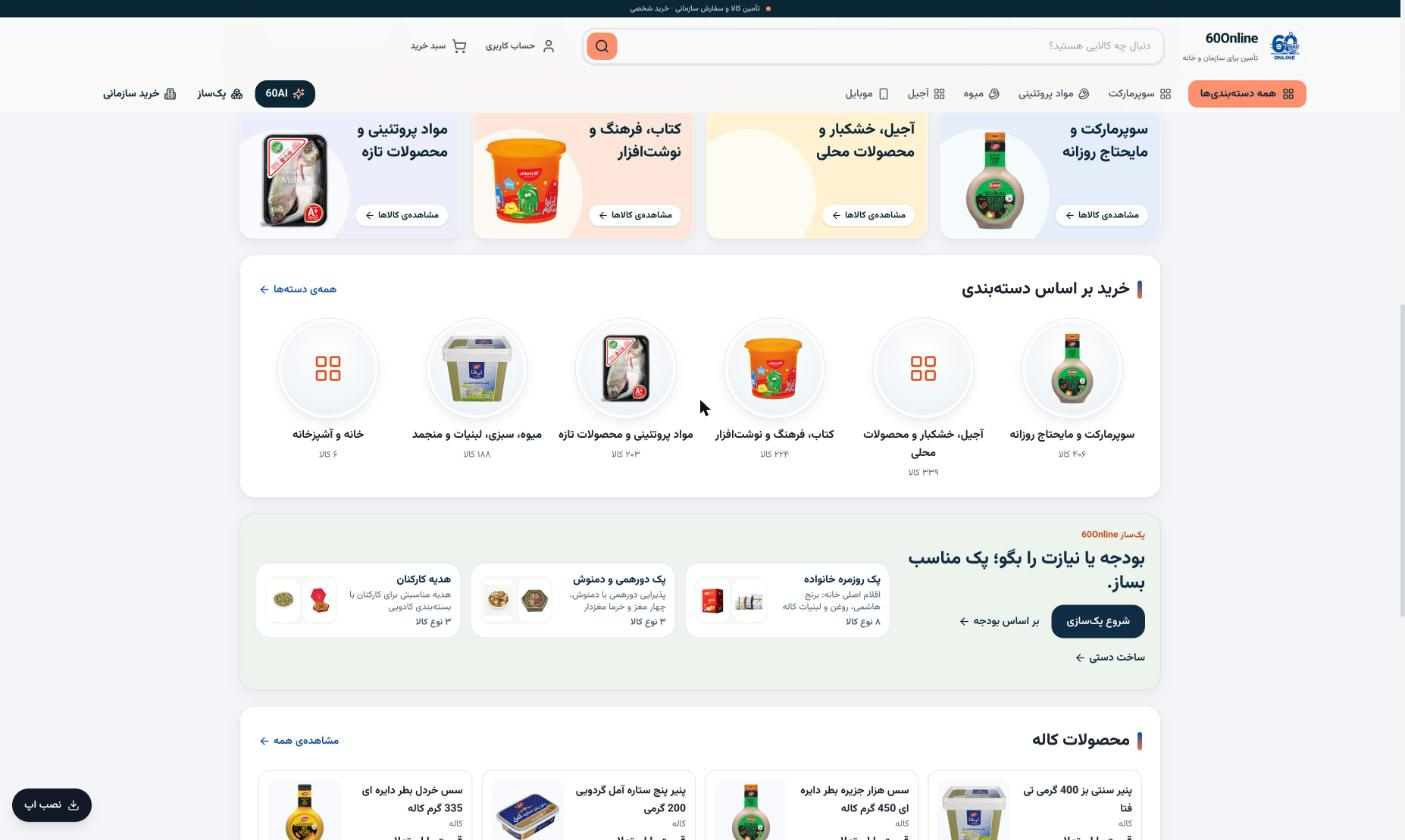
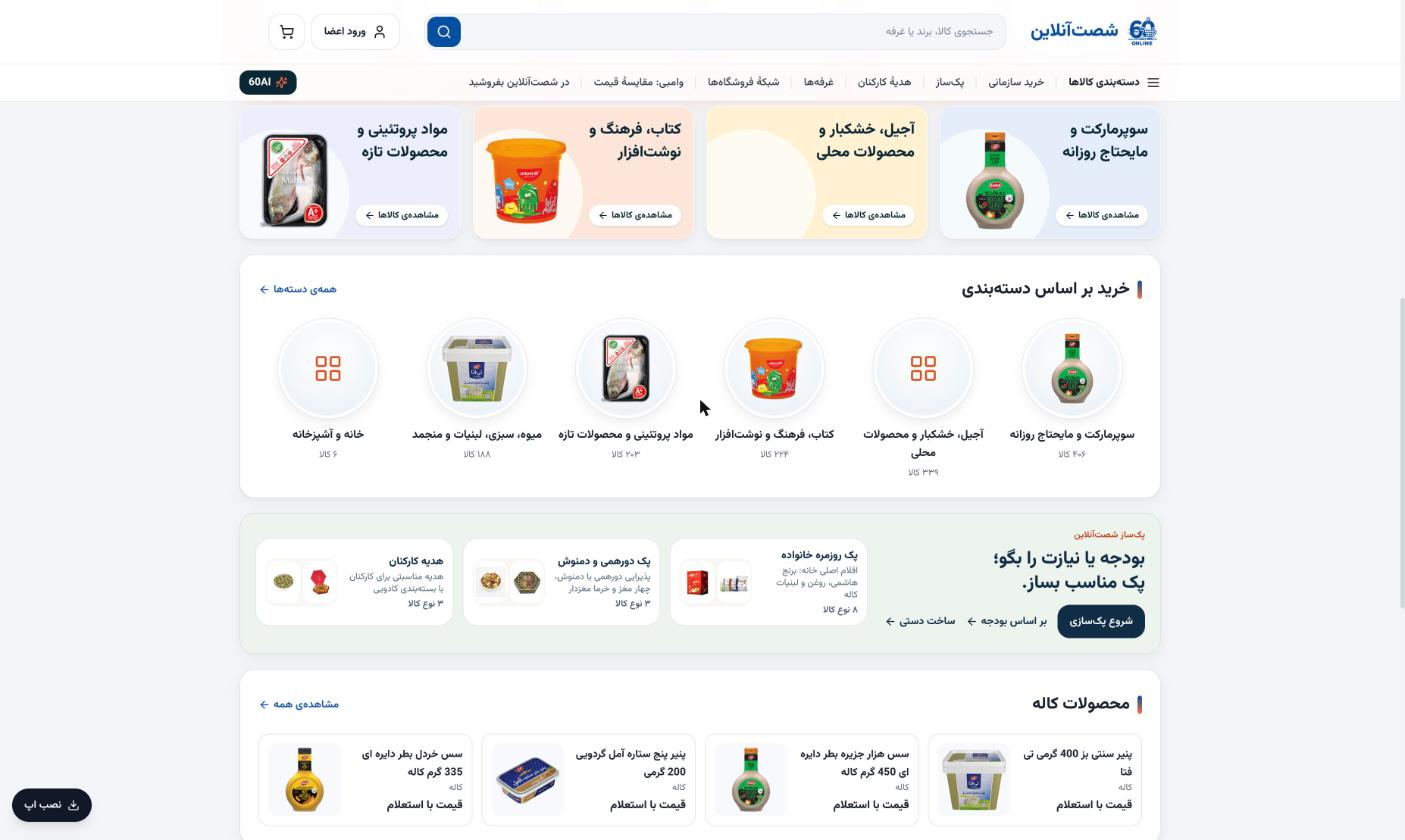
Record deploy of Figma header/footer (frontend 82cdbba) + next steps
Claude-Session: https://claude.ai/code/session_01WurtUQh4ABXSrqUdaSiB4L

diff --git a/docs/HANDOFF-homepage-2026-11-08.md b/docs/HANDOFF-homepage-2026-11-08.md
@@ -56,7 +56,13 @@
 - **۱۹ آبان:** بخش پکساز صفحهٔ اول به نوار فشرده تبدیل شد (به درخواست کاربر: «پکساز خیلی از صفحه را گرفته»). از حدود ۶۸۶ پیکسل به حدود ۲۵۰ پیکسل؛ کارت کامل پکها همچنان در `/pack-builder` است و `PackCard` تغییری نکرد.
   - طرح فیگما: فریم «پکساز — نوار فشرده» (`20:2`) جای جانگهدار قدیمی (`3:126`، مخفی شد) در صفحهٔ اول `2:2`. پیشنمایش: `docs/design/homepage-2026-11/figma-pack-band.png` و `figma-home-compact-pack.png`.
   - **استقرار: انجام شد** (۲۰ آبان، حدود ۱۱ تهران). پچ `d3b9ac8..4083d59` (فرانت) با sha256 فایل base64 `339585f0924910ec…` اعمال و فقط فرانت ساخته شد (`--no-deps`). `/`، `/pack-builder` و `/sell` کد ۲۰۰؛ فرانت healthy؛ بکاند دست نخورد. تصویر زنده: `docs/design/homepage-2026-11/screenshots/live-pack-band.jpg`.
-  - کد سرور اکنون برابر main در `4083d59` است، بهجز docs، tools و README.
+- **۲۰ آبان، هدر و فوتر سراسری از روی فیگما** (PR #18، به درخواست کاربر: «از روی صفحهٔ اول فیگما بگذار»):
+  - `Header.tsx`: نوار سفید، لوگو + «شصتآنلاین»، جستجوی روشن با دکمهٔ آبی، «ورود اعضا» و سبد؛ ردیف دوم «دستهبندی کالاها» + خرید سازمانی، پکساز، هدیهٔ کارکنان، غرفهها، شبکهٔ فروشگاهها (`/stores`)، وامبی، در شصتآنلاین بفروشید؛ «60AI» نگه داشته شد. موبایل مطابق فریم `19:262`. منطق ورود، سبد، منوی کشویی و نوار پایین موبایل دست نخورد.
+  - `Footer.tsx`: لوگو، یک جمله، ۵ دستهٔ پرکالا (از API)، خدمات، راهنما و قوانین. **تلفن، نشانی، اینماد و ساماندهی عمداً نیامده** تا دادهٔ رسمی برسد (صفحهٔ تماس هم هنوز «تأییدنشده» است).
+  - نوار پکساز: تیتر دوخطی مثل فیگما، لینکها در یک خط.
+  - **استقرار: انجام شد** (۲۰ آبان). پچ `4083d59..82cdbba` (فرانت)، sha256 فایل base64 `3cedaa19a9992aee…`، `git apply --check` سالم، فقط فرانت ساخته شد. کنسول وسط ساخت قطع شد ولی ساخت روی سرور ادامه یافت؛ هدر و فوتر تازه روی `/`، `/stores` و `/org` دیده شد. تصویرها: `screenshots/live-header-2026-11-10.jpg`، `live-footer-2026-11-10.jpg`، `live-pack-band.jpg`.
+  - **یک بار در کنسول بررسی شود:** `docker ps` (فرانت healthy)؛ خروجی آن به دلیل قطعی کنسول دیده نشد.
+  - کد سرور اکنون برابر main در `82cdbba` است، بهجز docs، tools و README.
 - **نسخهٔ قبلی صفحهٔ اول:** `/root/HomeSections.before-20261108.tsx`.
 - **دسترسی:** فقط از کنسول وب آروان.
   - pypi.org و github.com از سرور در دسترس نیستند. npm در دسترس است.

diff --git a/docs/NEXT-STEPS-2026-11-08.md b/docs/NEXT-STEPS-2026-11-08.md
@@ -106,7 +106,7 @@
 - **عکسهای جاافتاده:**
   - کاشی دستهٔ آجیل و خشکبار عکس ندارد، چون عکسها از فیلتر کیفیت رد نمیشوند. باید تقریباً مربع، دستکم ۲۵۰ پیکسل و با زمینهٔ روشن باشند (`frontend/src/lib/imageQuality.ts`).
   - برای کالاهای آجیل عکس مناسب از تأمینکننده گرفته شود.
-- **هدر و فوتر مطابق طرح Canva** (منوی کامل، «ارسال به [شعبه]»، فوتر با اینماد): در همهٔ صفحهها اثر دارد. اول در فیگما، بعد کد.
+- ~~هدر و فوتر مطابق طرح~~ **انجام شد ۲۰ آبان** (PR #18). مانده: «ارسال به [شعبه]» (نیاز به دادهٔ شعبهها)، تلفن و نشانی رسمی، نماد اینماد و ساماندهی پس از دریافت؛ عکس واقعی برای دستههای «آجیل، خشکبار و محصولات محلی» و «خانه و آشپزخانه» از تأمینکننده.
 - **لوگوی برندها:** از خود برندها گرفته شود.
 
 ## ج) روش ادامه برای کسی که کار را برمیدارد
